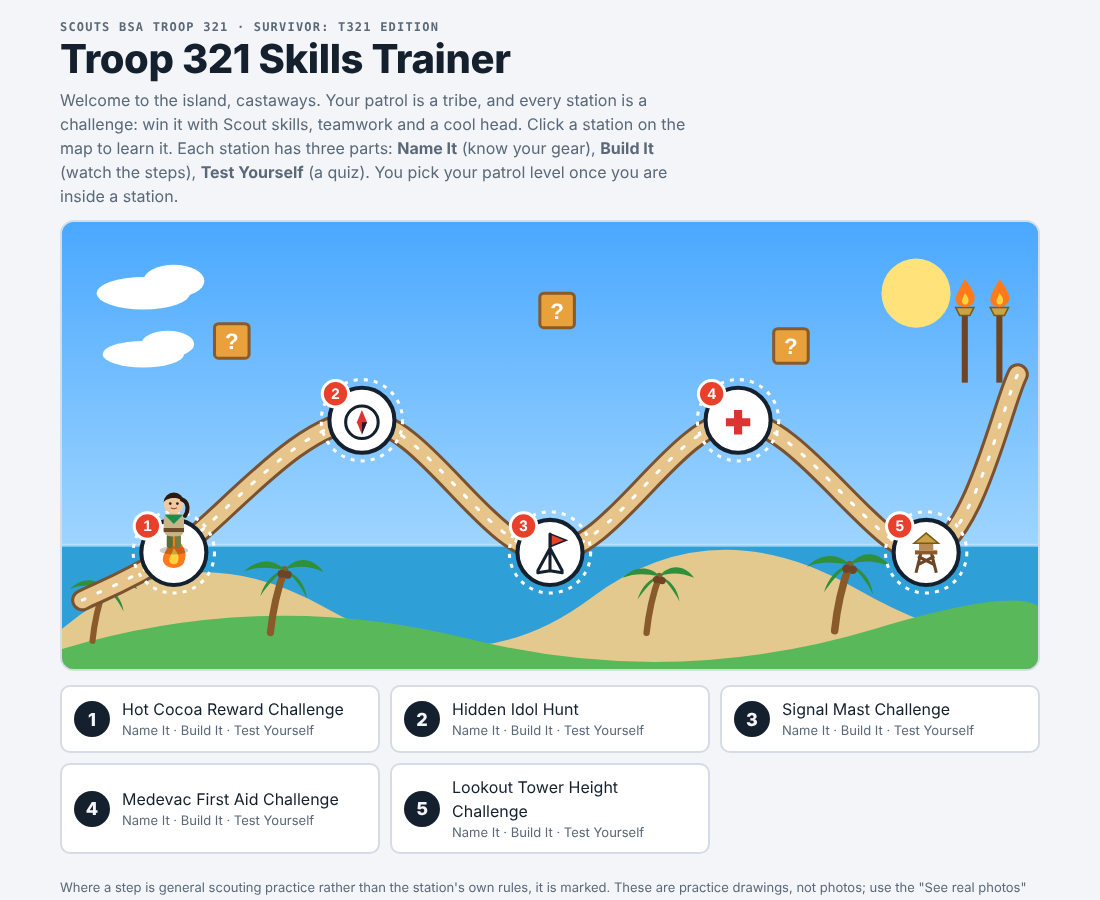
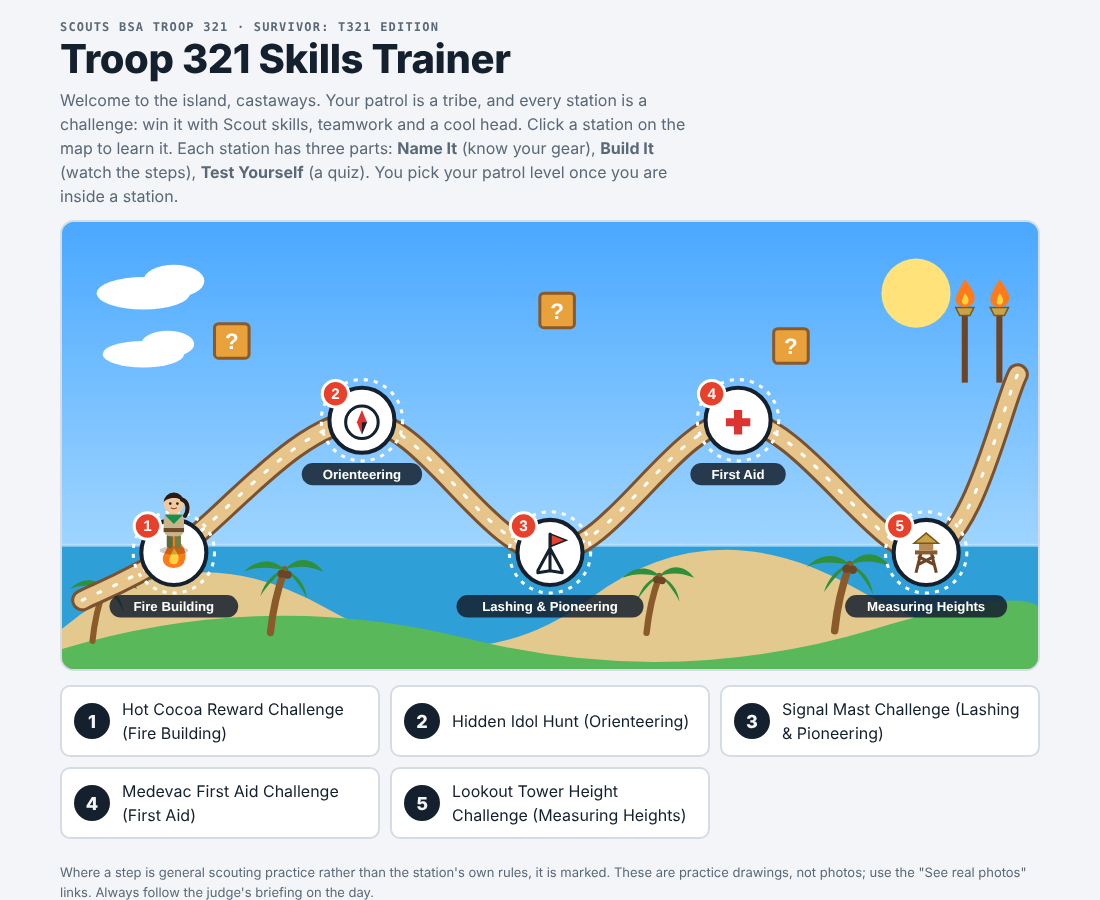
Show skill names on stations and add Troop Leader Resources links
- Station titles, map labels and station list show the skill in
  parentheses; drop the redundant "Name It · Build It · Test Yourself"
- "Learn more" links per station to troopleader.scouting.org pages
- README: Resources section, live link updated to troop321-skills-trainer
- Screenshots regenerated

Claude-Session: https://claude.ai/code/session_01KXBQg6WSUbtGTmjtFy61pH

diff --git a/index.html b/index.html
@@ -50,6 +50,8 @@ button:focus-visible,a:focus-visible,[tabindex]:focus-visible{outline:3px solid 
 .top{display:flex;align-items:center;gap:12px;flex-wrap:wrap;margin:12px 0 4px}
 .back{font:600 14px var(--disp);padding:8px 12px;border-radius:6px;border:2px solid var(--line);background:var(--panel);color:var(--fg);cursor:pointer}
 .stt{font-size:clamp(22px,4vw,32px);font-weight:800;margin:0;line-height:1.1}
+.skn{color:var(--mute);font-weight:600}
+.res{margin:8px 0 0;font-size:14px;color:var(--mute);max-width:80ch}.res a{color:var(--blue)}
 nav.tabs{display:flex;gap:6px;flex-wrap:wrap;margin:10px 0 16px;border-bottom:2px solid var(--line)}
 nav.tabs button{font:600 15px var(--disp);background:none;border:0;color:var(--mute);padding:10px 14px;cursor:pointer;border-bottom:3px solid transparent;margin-bottom:-2px}
 nav.tabs button[aria-selected=true]{color:var(--fg);border-bottom-color:var(--acc)}
@@ -163,18 +165,18 @@ function drawGlv(){
     if(!$('#st').hidden){openStation(cur.id,cur.tab)}else drawMap()});
 }
 /* ---------- landing map ---------- */
-/* Station order on the map. To add a station: define ST.<id> and NINFO.<id>, then add the id here.
+/* Station order on the map. To add a station: define ST.<id> and NINFO.<id> (name, skill, res = learn-more links, ic = map icon), then add the id here.
    Ids are stable keys (saved scores use them), so never reuse or renumber an old id.
    Map positions are spread automatically; ids listed here but not in LIVE show as locked "coming soon". */
 const ORDER=['s1','s2','s3','s4','s6'];
 const LIVE=['s1','s2','s3','s4','s6'];
 const NODES=ORDER.map((id,i)=>({id,x:ORDER.length<2?480:Math.round(110+i*740/(ORDER.length-1)),y:i%2?195:325}));
 const NINFO={
- s1:{name:'Hot Cocoa Reward Challenge',ic:`<path d="M0-20C10-8 14-2 10 8 7 15-7 15-10 8-13 1-6-4 0-20Z" fill="#ff7a1a"/><path d="M0-6C5 0 6 4 3 9-2 11-6 8-4 3Z" fill="#ffd23f"/>`},
- s2:{name:'Hidden Idol Hunt',ic:`<circle r="16" fill="#fff" stroke="#14202e" stroke-width="3"/><path d="M0-12 5 0 0 12-5 0Z" fill="#d33"/><path d="M0 12 5 0 0 0Z" fill="#14202e"/>`},
- s3:{name:'Signal Mast Challenge',ic:`<path d='M0-20V16M0 16-12 18M0 16 12 18M0-6-12 16M0-6 12 16' stroke='#14202e' stroke-width='3' fill='none' stroke-linecap='round'/><path d='M1-20 16-14 1-8Z' fill='#e8402a' stroke='#14202e' stroke-width='1.5'/>`},
- s4:{name:'Medevac First Aid Challenge',ic:`<rect x="-16" y="-16" width="32" height="32" rx="6" fill="#fff"/><path d="M-4-12h8v8h8v8h-8v8h-8v-8h-8v-8h8Z" fill="#d33"/>`},
- s6:{name:'Lookout Tower Height Challenge',ic:`<path d='M-10 18-5-2M10 18 5-2M-8 10 8 2M8 10-8 2' stroke='#6e4524' stroke-width='3' fill='none'/><rect x='-11' y='-4' width='22' height='4' fill='#8a5a2b'/><rect x='-7' y='-12' width='14' height='8' fill='#b98a54'/><path d='M-12-11 0-21 12-11Z' fill='#c9a24a' stroke='#7a5a12' stroke-width='1.5'/>`}
+ s1:{name:'Hot Cocoa Reward Challenge',skill:'Fire Building',res:[{t:'Fire Building (Troop Leader Resources)',u:'https://troopleader.scouting.org/rank-advancement-skills/campcraft/fire-building/'}],ic:`<path d="M0-20C10-8 14-2 10 8 7 15-7 15-10 8-13 1-6-4 0-20Z" fill="#ff7a1a"/><path d="M0-6C5 0 6 4 3 9-2 11-6 8-4 3Z" fill="#ffd23f"/>`},
+ s2:{name:'Hidden Idol Hunt',skill:'Orienteering',res:[{t:'Orienteering program feature (Troop Leader Resources)',u:'https://troopleader.scouting.org/program-features/orienteering/'},{t:'Navigation and Measurements: compass and map skills',u:'https://troopleader.scouting.org/rank-advancement-skills/campcraft/navigation-and-measurements/'}],ic:`<circle r="16" fill="#fff" stroke="#14202e" stroke-width="3"/><path d="M0-12 5 0 0 12-5 0Z" fill="#d33"/><path d="M0 12 5 0 0 0Z" fill="#14202e"/>`},
+ s3:{name:'Signal Mast Challenge',skill:'Lashing & Pioneering',res:[{t:'Lashings: square, diagonal, floor, tripod and more',u:'https://troopleader.scouting.org/rank-advancement-skills/pioneering/lashings/'},{t:'Pioneering program feature: projects, ropes and spars',u:'https://troopleader.scouting.org/program-features/pioneering/information/'}],ic:`<path d='M0-20V16M0 16-12 18M0 16 12 18M0-6-12 16M0-6 12 16' stroke='#14202e' stroke-width='3' fill='none' stroke-linecap='round'/><path d='M1-20 16-14 1-8Z' fill='#e8402a' stroke='#14202e' stroke-width='1.5'/>`},
+ s4:{name:'Medevac First Aid Challenge',skill:'First Aid',res:[{t:'First Aid program feature (Troop Leader Resources)',u:'https://troopleader.scouting.org/program-features/first-aid/information/'}],ic:`<rect x="-16" y="-16" width="32" height="32" rx="6" fill="#fff"/><path d="M-4-12h8v8h8v8h-8v8h-8v-8h-8v-8h8Z" fill="#d33"/>`},
+ s6:{name:'Lookout Tower Height Challenge',skill:'Measuring Heights',res:[{t:'Navigation and Measurements: measuring heights and widths',u:'https://troopleader.scouting.org/rank-advancement-skills/campcraft/navigation-and-measurements/'}],ic:`<path d='M-10 18-5-2M10 18 5-2M-8 10 8 2M8 10-8 2' stroke='#6e4524' stroke-width='3' fill='none'/><rect x='-11' y='-4' width='22' height='4' fill='#8a5a2b'/><rect x='-7' y='-12' width='14' height='8' fill='#b98a54'/><path d='M-12-11 0-21 12-11Z' fill='#c9a24a' stroke='#7a5a12' stroke-width='1.5'/>`}
 };
 
 let pathLens=[],mapBuilt=false,scoutAt=0;
@@ -189,11 +191,11 @@ function drawMap(){
    <circle cy="-44" r="10" fill="#f0c9a0"/><path d="M-10-45a10 10 0 0 1 20 0c-3-6-17-6-20 0Z" fill="#2a1a10"/><path d="M8-48c6 2 7 10 3 16" stroke="#2a1a10" stroke-width="4" fill="none" stroke-linecap="round"/><circle cx="-3.5" cy="-44" r="1.3" fill="#222"/><circle cx="3.5" cy="-44" r="1.3" fill="#222"/>
    <path d="M-3-40q3 2 6 0" stroke="#a0522d" stroke-width="1.2" fill="none"/></g></g>`;
   const nodes=NODES.map((n,i)=>{const I=NINFO[n.id],live=LIVE.includes(n.id);const stz=starsOf(n.id);
-    return `<g class="node${live?'':' locked'}" tabindex="0" role="button" aria-label="Station ${i+1}: ${I.name}${live?'':' (coming soon)'}" data-i="${i}" transform="translate(${n.x},${n.y})">
+    return `<g class="node${live?'':' locked'}" tabindex="0" role="button" aria-label="Station ${i+1}: ${I.name} (${I.skill})${live?'':' (coming soon)'}" data-i="${i}" transform="translate(${n.x},${n.y})">
      <circle class="ring" r="40" fill="none" stroke="#fff" stroke-width="3" stroke-dasharray="4 6"/><g class="disc"><circle r="32" fill="${live?'#fff':'#cfd6de'}" stroke="#14202e" stroke-width="4"/><g transform="translate(0,2)">${I.ic}</g></g>
      <circle cx="-26" cy="-26" r="13" fill="#e8402a" stroke="#fff" stroke-width="3"/>${tx(-26,-21,i+1,{s:15,f:'#fff',w:800})}
      ${live?'':`<g transform="translate(24,-26)"><rect x="-10" y="-8" width="20" height="16" rx="3" fill="#6b7c8f"/><path d="M-5-8v-4a5 5 0 0 1 10 0v4" stroke="#6b7c8f" stroke-width="3" fill="none"/></g>`}
-     ${stz?tx(0,60,stz,{s:16,f:'#ffd23f'}):''}</g>`}).join('');
+     <g class="skl"><rect x="${-I.skill.length*4.1-10}" y="42" width="${I.skill.length*8.2+20}" height="22" rx="11" fill="#14202e" opacity=".85"/>${tx(0,58,I.skill,{s:13,f:'#fff'})}</g>${stz?tx(0,84,stz,{s:16,f:'#ffd23f'}):''}</g>`}).join('');
   $('#map').innerHTML=`<div class="world">${sv(`
    <defs><linearGradient id="sky" x1="0" y1="0" x2="0" y2="1"><stop offset="0" stop-color="#4aa8ff"/><stop offset="1" stop-color="#bfe6ff"/></linearGradient></defs>
    <rect width="960" height="440" fill="url(#sky)"/>
@@ -208,7 +210,7 @@ function drawMap(){
    <path id="road" d="${pd}" fill="none" stroke="#7a5230" stroke-width="22" stroke-linecap="round"/><path d="${pd}" fill="none" stroke="#e6c48a" stroke-width="16" stroke-linecap="round"/><path d="${pd}" fill="none" stroke="#fff" stroke-width="3" stroke-dasharray="3 14" stroke-linecap="round"/>
    <g transform="translate(0,118)"><g transform="translate(888,0)"><rect x="-3" y="-30" width="6" height="70" fill="#6e4524"/><path d="M-9-34h18l-4 8h-10Z" fill="#c9a24a" stroke="#7a5a12" stroke-width="1.5"/><g class="fl"><path d="M0-62C9-50 12-44 8-38 4-33-4-33-8-38-11-44-6-50 0-62Z" fill="#ff7a1a"/><path d="M0-48C4-44 5-40 2-37-2-36-4-39-2-43Z" fill="#ffd23f"/></g></g><g transform="translate(922,0)"><rect x="-3" y="-30" width="6" height="70" fill="#6e4524"/><path d="M-9-34h18l-4 8h-10Z" fill="#c9a24a" stroke="#7a5a12" stroke-width="1.5"/><g class="fl"><path d="M0-62C9-50 12-44 8-38 4-33-4-33-8-38-11-44-6-50 0-62Z" fill="#ff7a1a"/><path d="M0-48C4-44 5-40 2-37-2-36-4-39-2-43Z" fill="#ffd23f"/></g></g></g>
    ${nodes}${sc}`,'0 0 960 440')}</div>
-   <div class="slist">${NODES.map((n,i)=>{const live=LIVE.includes(n.id);return `<button class="sbtn" data-i="${i}"${live?'':' disabled'}><span class="n">${i+1}</span><span>${NINFO[n.id].name}<small>${live?'Name It · Build It · Test Yourself':'Coming soon'} <span class="stars">${starsOf(n.id)}</span></small></span></button>`}).join('')}</div>`;
+   <div class="slist">${NODES.map((n,i)=>{const live=LIVE.includes(n.id);return `<button class="sbtn" data-i="${i}"${live?'':' disabled'}><span class="n">${i+1}</span><span>${NINFO[n.id].name} (${NINFO[n.id].skill})<small>${live?'':'Coming soon'} <span class="stars">${starsOf(n.id)}</span></small></span></button>`}).join('')}</div>`;
   const road=document.getElementById('road');const L=road.getTotalLength();
   pathLens=NODES.map(n=>{let bi=0,bd=1e9;for(let s=0;s<=600;s++){const p=road.getPointAtLength(L*s/600);const d=(p.x-n.x)**2+(p.y-n.y)**2;if(d<bd){bd=d;bi=s}}return L*bi/600});
   document.querySelectorAll('.node,.sbtn').forEach(el=>{const go=()=>{const i=+el.dataset.i;const n=NODES[i];if(!LIVE.includes(n.id))return;walkTo(i)};
@@ -231,8 +233,9 @@ let cur={id:null,tab:'name'};
 function openStation(id,tab){
   cur={id,tab:tab||'name'};const S=ST[id];
   $('#map').hidden=true;$('#st').hidden=false;$('#lvbox').hidden=false;stopAuto();stopClock();
-  $('#st').innerHTML=`<div class="top"><button class="back" id="bk">← Map</button><h2 class="stt">Station ${ORDER.indexOf(S.id)+1}: ${S.name}</h2></div>
+  $('#st').innerHTML=`<div class="top"><button class="back" id="bk">← Map</button><h2 class="stt">Station ${ORDER.indexOf(S.id)+1}: ${S.name} <span class="skn">(${NINFO[S.id].skill})</span></h2></div>
   <p class="sub">${S.scenario}</p>
+  ${(NINFO[S.id].res||[]).length?`<p class="res"><b>Learn more:</b> ${NINFO[S.id].res.map(r=>`<a href="${r.u}" target="_blank" rel="noopener">${r.t} ↗</a>`).join('<span aria-hidden="true"> · </span>')}</p>`:''}
   <nav class="tabs" role="tablist">${[['name','Name It'],['build','Build It'],['test','Test Yourself']].map(([k,t])=>`<button role="tab" data-k="${k}" aria-selected="${k===cur.tab}">${t}</button>`).join('')}</nav><div id="body"></div>`;
   $('#bk').onclick=()=>{stopAuto();stopClock();drawMap();window.scrollTo(0,0)};
   document.querySelectorAll('nav.tabs button').forEach(b=>b.onclick=()=>{cur.tab=b.dataset.k;stopAuto();stopClock();document.querySelectorAll('nav.tabs button').forEach(x=>x.setAttribute('aria-selected',x===b));renderTab()});

diff --git a/README.md b/README.md
@@ -3,7 +3,7 @@
 **Survivor: T321 Edition: a mobile-friendly practice trainer for Scouts BSA Troop 321.**
 Each patrol is a tribe and each skill station is a challenge. Scouts learn the stations at home and test themselves before the patrol competition. Every station adapts to three patrol levels: **Beginner**, **Intermediate** and **Advanced**.
 
-**Live trainer:** https://samerhaj.github.io/troop-skills-trainer/
+**Live trainer:** https://samerhaj.github.io/troop321-skills-trainer/
 
 ![Map of the skill stations](screenshots/1-map.png)
 
@@ -39,6 +39,18 @@ Requirements and scoring differ by level, so the steps, judge checklist, time li
 
 More stations will be added over time.
 
+Each station shows its skill name in the title and on the map, and links to Scouting America's Troop Leader Resources for that skill.
+
+## Resources
+
+Skill references linked from the stations ([Troop Leader Resources](https://troopleader.scouting.org/)):
+
+- Fire building: [Fire Building](https://troopleader.scouting.org/rank-advancement-skills/campcraft/fire-building/)
+- Orienteering: [Orienteering program feature](https://troopleader.scouting.org/program-features/orienteering/), [Navigation and Measurements](https://troopleader.scouting.org/rank-advancement-skills/campcraft/navigation-and-measurements/)
+- Lashing and pioneering: [Lashings](https://troopleader.scouting.org/rank-advancement-skills/pioneering/lashings/), [Pioneering program feature](https://troopleader.scouting.org/program-features/pioneering/information/)
+- First aid: [First Aid program feature](https://troopleader.scouting.org/program-features/first-aid/information/)
+- Measuring heights: [Navigation and Measurements](https://troopleader.scouting.org/rank-advancement-skills/campcraft/navigation-and-measurements/) (measuring heights and widths)
+
 ## How it was built
 
 - **One self-contained HTML file.** No server, no install, no tracking. It also works offline once saved.
@@ -51,7 +63,7 @@ More stations will be added over time.
 
 Everything lives in `index.html`. Use an existing station (for example `ST.s4`, First Aid) as the template.
 
-1. **Map entry.** Add the station's name and map icon to `NINFO`, then add its id to `ORDER` and `LIVE`. Map positions and station numbers are worked out from `ORDER`, so reordering that array reorders the map. An id in `ORDER` but not in `LIVE` shows as a locked "coming soon" stop.
+1. **Map entry.** Add the station's name, `skill` name, `res` (learn-more links) and map icon to `NINFO`, then add its id to `ORDER` and `LIVE`. Map positions and station numbers are worked out from `ORDER`, so reordering that array reorders the map. An id in `ORDER` but not in `LIVE` shows as a locked "coming soon" stop.
 2. **Station data.** Define `ST.<id>` with `name`, `scenario`, `time`, `goal`, `judge`, `items` (Name It cards), `cats` (rubric lines and their points per level), `qb` (question bank), and `steps` (Build It scenes).
 3. **Levels.** Level keys are `T` (Beginner), `W` (Intermediate) and `B` (Advanced). They are internal ids only; `lv:'TWB'` means "all levels", `lv:'WB'` means Intermediate and Advanced. Display names live in one place, the `LV` object.
 4. **Ids are permanent.** Saved best scores are stored per station id, so never reuse or renumber an old id. That is why the fifth station's id is `s6`: the original Station 5 was removed.
